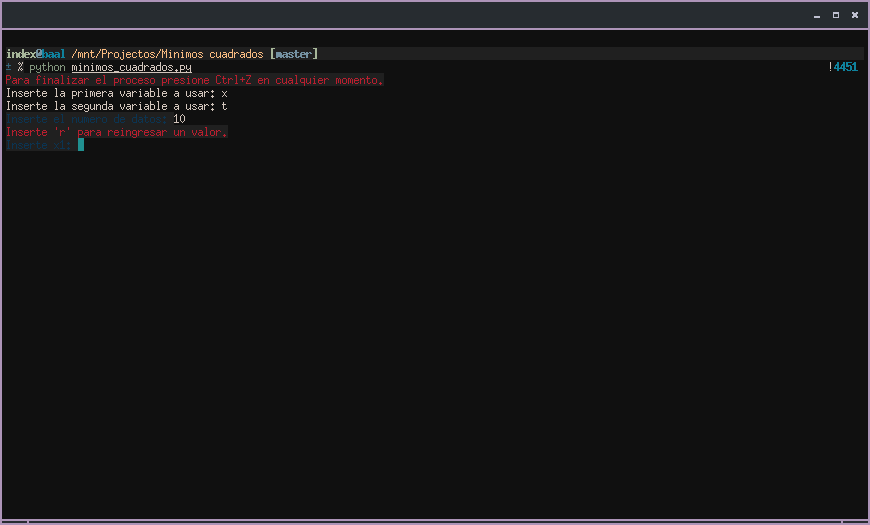
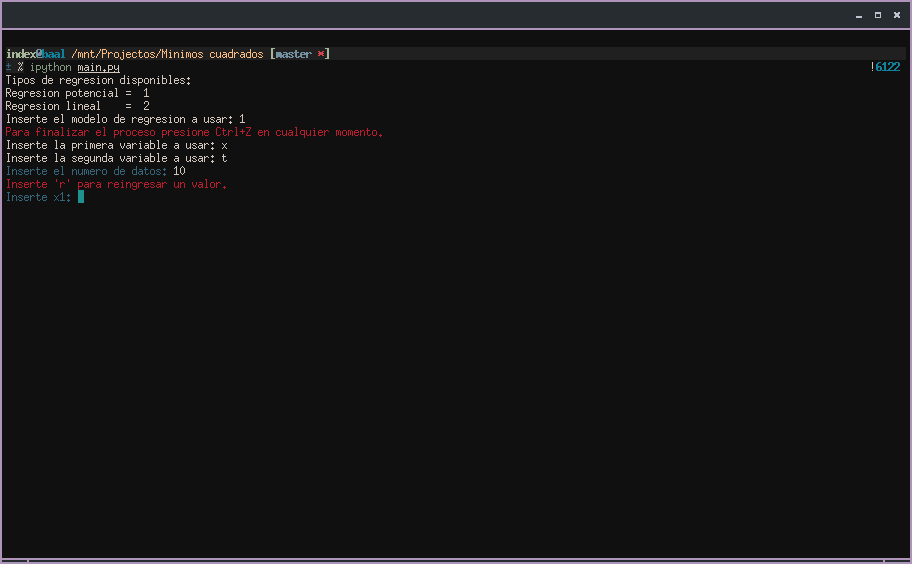
../..

diff --git a/potencial.py b/potencial.py
@@ -48,7 +48,7 @@ def potencial(d):
 
     if x_o_y == '1':
         v = d['v_x']
-        ln_x_cuadrado = ln_v_cuadrado = [d['n'] ** 2 for d['n'] in ln_x]
+        ln_x_cuadrado = ln_v_cuadrado = [i ** 2 for i in ln_x]
         print('El cuadrado de los logaritmos naturales de "' + d['v_x'] + '" es:')
         print(CGREEN + str(ln_x_cuadrado) + CEND)
 
@@ -101,7 +101,7 @@ def potencial(d):
 
     elif x_o_y == '2':
         v = d['v_y']
-        ln_y_cuadrado = ln_v_cuadrado = [d['n'] ** 2 for d['n'] in ln_y]
+        ln_y_cuadrado = ln_v_cuadrado = [i ** 2 for i in ln_y]
         print('El cuadrado de los logaritmos de "' + d['v_y'] + '" es:')
         print(CGREEN + str(ln_y_cuadrado) + CEND)
 

diff --git a/README.md b/README.md
@@ -15,15 +15,27 @@ http://matplotlib.org/users/usetex.html
 # Guia de uso
 * Esta guia usa datos obtenidos experimentalmente *
 
-1.- Ejecutar el script
+1.- Ejecutar el script.
 
-`python minimos_cuadrados.py`
+`python main.py`
 
-2.- Insertar las variables a usar y el numero de datos
+Es recomendable crear un archivo .csv con los datos ya ordenados, como se muestra en la siguiente imagen:
+
+![ScreenShot](https://raw.github.com/index-0/Regresion/master/Images/csv.png)
+
+Para ejecutar el script tomando en cuenta el archivo .csv
+
+`python main.py datos.csv`
+
+2.- Elejir el metodo de regresion a usar.
+
+![ScreenShot](https://raw.github.com/index-0/Regresion/master/Images/Metodo_Regresion.png)
+
+3.- Insertar las variables a usar y el numero de datos.
 
 ![ScreenShot](https://raw.github.com/index-0/Regresion/master/Images/1.png)
 
-3.- Ingresar los datos y la unidad correspondiente a las variables
+4.- Ingresar los datos y la unidad correspondiente a las variables. (En caso de que no se haya cargado el archivo .csv)
 
 | Distancia             | Tiempo                     |
 |-----------------------|----------------------------|
@@ -40,19 +52,23 @@ http://matplotlib.org/users/usetex.html
 
 ![ScreenShot](https://raw.github.com/index-0/Regresion/master/Images/2.png)
 
-4.- Visualizar la grafica de los datos (Opcional)
+5.- Visualizar la grafica de los datos (Opcional)
 
 ![ScreenShot](https://raw.github.com/index-0/Regresion/master/Images/figure_1.png)
 
-5.- Decidir la ecuacion que desee
+6.- Decidir la ecuacion que desee
 
 ![ScreenShot](https://raw.github.com/index-0/Regresion/master/Images/3.png)
 
-6.- Visualizar la grafica de la ecuacion obtenida (Opcional)
+7.- Visualizar la grafica de la ecuacion obtenida (Opcional)
 
 ![ScreenShot](https://raw.github.com/index-0/Regresion/master/Images/figure_2.png)
 
-7.- Se guardara un archivo .csv el cual contiene la hoja de calculos
+8.- Visualizar la grafica de la comparacion de la ecuacion con los datos insertados. (Opcional)
+
+![ScreenShot](https://raw.github.com/index-0/Regresion/master/Images/figure_3.png)
+
+9.- Se guardara un archivo .csv el cual contiene la hoja de calculos
 
 ![ScreenShot](https://raw.github.com/index-0/Regresion/master/Images/4.png)
 
